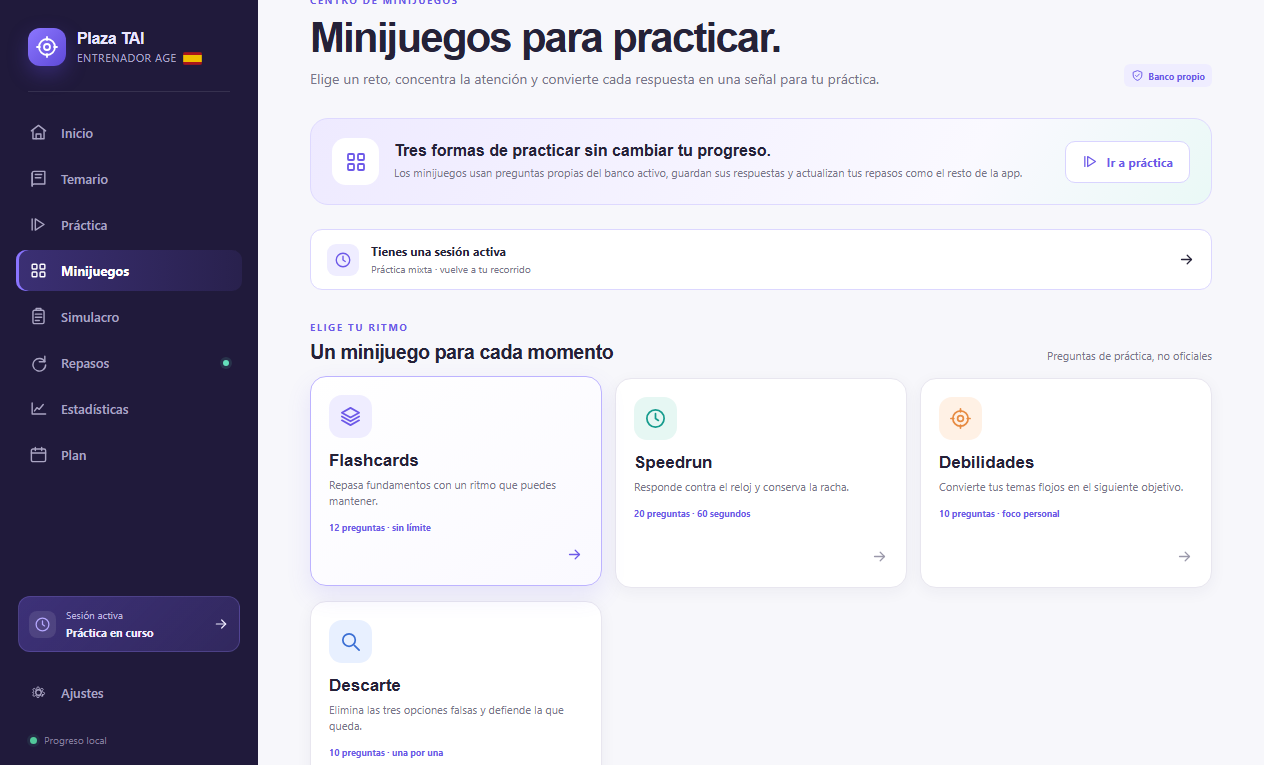
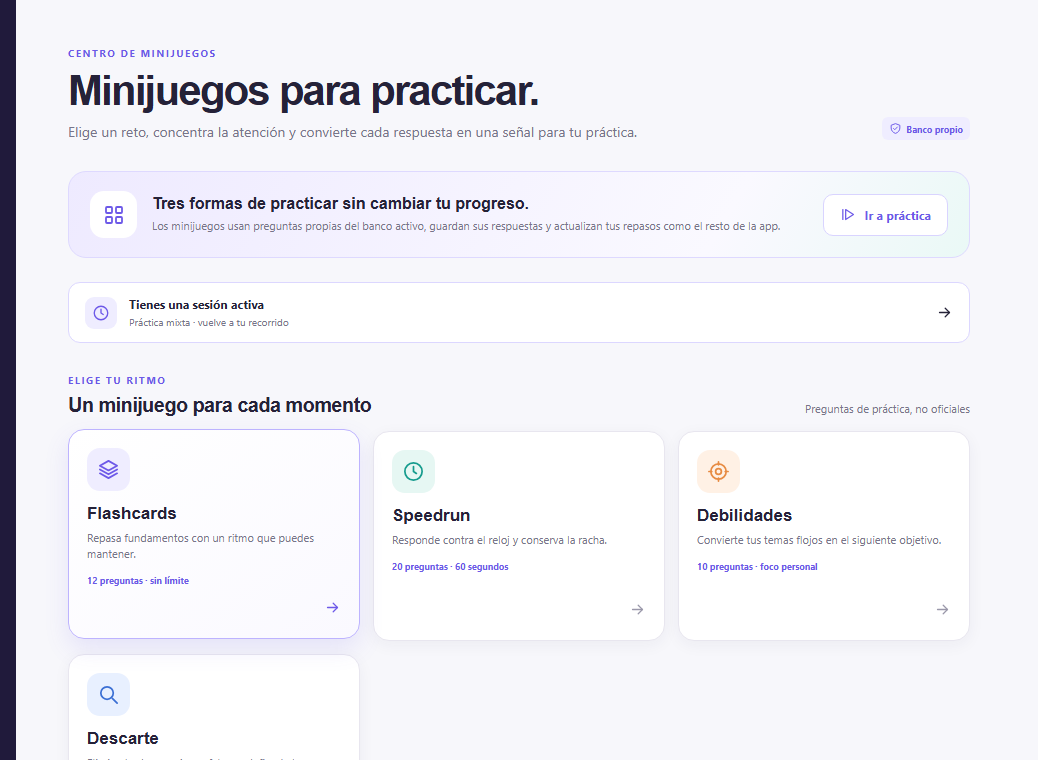
feat: place every screenshot and crop them to the useful area
The topic pages carried one screenshot at the very bottom, after the four
questions, and it was a full 1280 pixel window: scaled into a text column the
interface became unreadable and looked out of place.

Screenshots are now cropped to the element that matters, measured in the page
rather than guessed, so a question screenshot is 616 wide instead of 1280 and
arrives legible at its natural size. The capture script reads the box of the
chosen element, which also means a layout change cannot silently produce a
half-empty image.

All six are placed: the correction with the per-option notes on the topic pages
and the test page, the question on the syllabus hub, the case dossier on the
mock exam, the dashboard on the home and the study guide, the practice setup on
the guide and the minigames on their own page. None is left unused, which was
the case for five of them until now.

The generator reads each PNG's header for its dimensions instead of having them
written down, since a fixed size is exactly the value that goes stale the moment
an image is retaken. Two stale claims fixed while passing: the home page listed
three minigames when there are four.

One build error worth noting: importing readFileSync from fs/promises broke the
generator, and the build appeared to succeed because the filter I was using to
read its output only looked for the success line. The missing pages were the
clue.

diff --git a/index.html b/index.html
@@ -184,12 +184,27 @@
           max-height: 65px;
           border: 0;
         }
-       .seo-fallback-nav {
-         display: flex;
-         flex-wrap: wrap;
-         gap: 16px;
-         margin-top: 24px;
-       }
+      .seo-fallback-nav {
+        display: flex;
+        flex-wrap: wrap;
+        gap: 16px;
+        margin-top: 24px;
+      }
+      .seo-fallback-figure {
+        margin: 32px 0 0;
+      }
+      .seo-fallback-figure img {
+        display: block;
+        width: 100%;
+        height: auto;
+        border: 1px solid #e8e6ef;
+        border-radius: 12px;
+      }
+      .seo-fallback-figure figcaption {
+        margin-top: 10px;
+        color: #77758a;
+        font-size: 0.85rem;
+      }
      </style>
   </head>
   <body>
@@ -214,7 +229,7 @@
           <li>568 preguntas propias para práctica con explicaciones.</li>
           <li>Simulacro cronometrado de 80 + 20 preguntas.</li>
           <li>Repaso espaciado, estadísticas y plan de estudio local.</li>
-          <li>Minijuegos de flashcards, speedrun y debilidades.</li>
+          <li>Minijuegos de flashcards, speedrun, debilidades y descarte.</li>
         </ul>
         <p>
           Banco de preguntas propio, práctico y no oficial. Consulta el
@@ -225,6 +240,20 @@
             >BOE de referencia</a
           >.
         </p>
+        <figure class="seo-fallback-figure">
+          <img
+            src="./capturas/panel-progreso-tai.png"
+            alt="Panel de Plaza TAI con la cobertura del temario, el dominio por bloque y los temas a repasar"
+            width="1038"
+            height="820"
+            loading="lazy"
+            decoding="async"
+          />
+          <figcaption>
+            El panel resume la cobertura del temario y señala qué conviene
+            repasar antes del examen.
+          </figcaption>
+        </figure>
         <nav aria-label="Navegación SEO" class="seo-fallback-nav">
           <a href="./guia-tai.html">Guía de estudio TAI</a>
           <a href="./minijuegos-tai.html">Minijuegos TAI</a>

diff --git a/public/minijuegos-tai.html b/public/minijuegos-tai.html
@@ -20,6 +20,10 @@
         <a class="button button-primary" href="./?vista=minijuegos">Abrir minijuegos</a>
         <a class="button button-secondary" href="./?vista=practica">Practicar por temas</a>
       </p>
+      <figure class="site-figure">
+        <img src="./capturas/minijuegos-tai.png" alt="Pantalla de minijuegos de Plaza TAI con flashcards, speedrun, debilidades y descarte" width="1038" height="760" loading="lazy" decoding="async" />
+        <figcaption>Cuatro formas de repasar lo mismo: con calma, contra el reloj, por temas flojos o descartando opciones.</figcaption>
+      </figure>
       <div class="site-card">
         <h2>Flashcards</h2>
         <p>Responde una selección de preguntas y revisa la explicación después de cada acierto o error. Sirve para recorrer conceptos de los cuatro bloques sin repetir siempre las mismas preguntas.</p>

diff --git a/public/guia-tai.html b/public/guia-tai.html
@@ -20,6 +20,10 @@
         <a class="button button-primary" href="./?vista=practica">Empezar a practicar</a>
         <a class="button button-secondary" href="./?vista=temario">Ver los 33 temas</a>
       </p>
+      <figure class="site-figure">
+        <img src="./capturas/practica-tai-configuracion.png" alt="Pantalla para configurar una práctica de TAI por bloque, tema y dificultad" width="1038" height="792" loading="lazy" decoding="async" />
+        <figcaption>Puedes acotar la práctica por bloque, por tema y por dificultad antes de empezar.</figcaption>
+      </figure>
       <div class="site-card">
         <h2>Un ciclo de estudio en cuatro pasos</h2>
         <ol>
